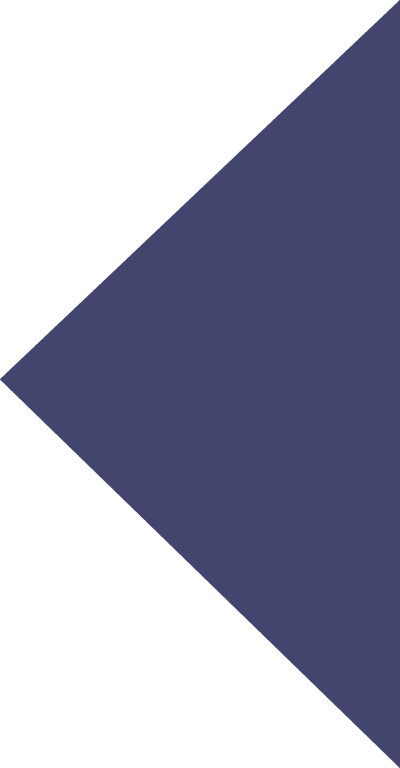
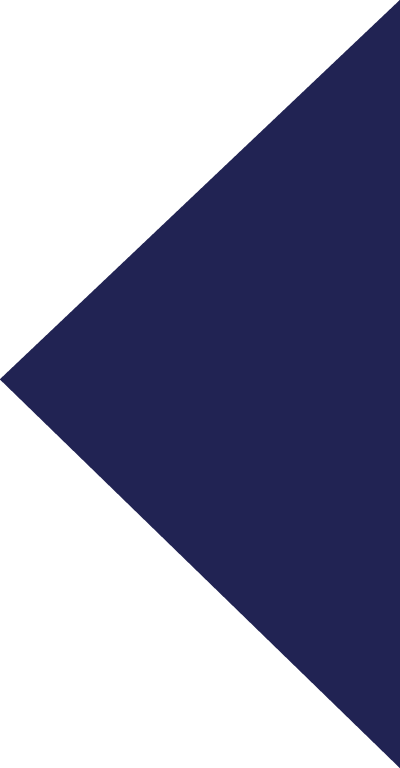
CHANGED & FINISHED: date filter in triangle + switching between date and type filter

diff --git a/js/index.js b/js/index.js
@@ -271,6 +271,7 @@ function bottomVisible() {
 /////////// click on "by type" ///////////
 document.querySelector('.by-type').addEventListener('click', showCategoryList);
 function showCategoryList(){
+
     document.querySelector('.current-type').classList.add('hide');
     document.querySelector('img.dark-green').classList.add('big');
     document.querySelector('.type-filter').classList.add('expand-type-filter');
@@ -280,8 +281,8 @@ function showCategoryList(){
 }
 
 /////////// click on "close by type" ///////////
-document.querySelector('.close-by-type').addEventListener('click', hideCategoryList);
-function hideCategoryList(){
+document.querySelector('.close-by-type').addEventListener('click', closeTypeFilter);
+function closeTypeFilter(){
     document.querySelector('img.dark-green').classList.remove('big');
     document.querySelector('.type-filter').classList.remove('expand-type-filter');
     document.querySelector('aside').classList.remove('tilt');
@@ -364,27 +365,19 @@ let datePicked; // need this to handle the collapse calender result. If no date 
 document.querySelector('.by-date').addEventListener('click', showCalender);
 function showCalender(){
     datePicked = false;
+    document.querySelector('img.dark-green').classList.remove('big');
+    closeTypeFilter();
+    document.querySelector('img.purple').classList.add('big');
+    document.querySelector('.calendar').classList.add('expand');
     document.querySelector('.date-filter').classList.remove('hide');
-    document.querySelector('.type-filter').classList.add('hide');
-    document.querySelector('.by-type').classList.add('hide');
     document.querySelector('.by-date').classList.add('hide');
-    document.querySelector('.or').classList.add('hide');
-    document.querySelector('aside').classList.add('expand');
-    document.querySelector('.corner-icon').classList.add('hide');
-    document.querySelector('.corner-icon-pink').classList.remove('hide');
 }
 
 
 // click to collapse calender
-document.querySelector('.close-calender').addEventListener('click', collapseCalender);
+document.querySelector('.close-calender').addEventListener('click', closeDateFilter);
 function collapseCalender(){
-    document.querySelector('.by-type').classList.remove('hide');
-    document.querySelector('.or').classList.remove('hide');
-    document.querySelector('.corner-icon').classList.remove('hide');
-    document.querySelector('.corner-icon-pink').classList.add('hide');
-    document.querySelector('.date-filter').classList.add('hide');
-    document.querySelector('.by-date').classList.remove('hide');
-    document.querySelector('aside').classList.remove('expand');
+    closeDateFilter();
     if (datePicked == true){
         if (document.querySelector('.chosen')){
             document.querySelector('.chosen').classList.remove('chosen');
@@ -397,6 +390,12 @@ function collapseCalender(){
     } else {
         document.querySelector('.type-filter').classList.remove('hide');
     }
+}
+function closeDateFilter(){
+    document.querySelector('img.purple').classList.remove('big');
+    document.querySelector('.by-date').classList.remove('hide');
+    document.querySelector('.date-filter').classList.add('hide');
+    document.querySelector('.calendar').classList.remove('expand');
 }
 
 /////////// show events on calender ///////////
@@ -446,6 +445,14 @@ function clickOnDay(d){
             setTimeout(function(){document.querySelector('.month:not(.hide) .hint').textContent = " * date in highlighted color has event(s) registered already";
 }, 1300);
         } else { // click on day with match
+            if(document.querySelector('.chosen')){ // the first click on matched day should clear chosen, from the second click on matched day on, there will be no more .chosen. so check existance first
+                document.querySelector('.chosen').classList.remove('chosen'); // cuz an event based on a date is chose and this event may not be of the same type of the current type displayed, so need to remove this info to avoid confusion
+                document.querySelector('.current-type').classList.add('hide'); // this line shows which was last picked as chosen type, need to be removed as well
+                if(document.querySelector('.genre-line')){
+                    document.querySelector('.genre-line').remove(); // inside there could be a line of genre, need to be removed as well.
+                }
+            }
+            document.querySelector('.triangle').setAttribute('src', "img/triangle_purple_300.png");
             document.querySelector('.month:not(.hide) .hint').textContent = " * date in highlighted color has event(s) registered already";     // whenever a day is clicked, reset hint to this
             document.querySelectorAll('.singleEvent').forEach(function(e){e.classList.add('match-day-clicked')});
             document.querySelectorAll('.singleEventOnDate').forEach(function(e){e.classList.add('match-day-clicked')});
@@ -470,7 +477,6 @@ function clickOnDay(d){
                             clone2.querySelector('.event-type-icon').setAttribute('src', "img/" + e.categories[0] +"-black.png");
                         }
                     clone2.querySelector('h1').innerHTML = e.title.rendered;
-                    clone2.querySelector('h1').classList.add('extra-margin'); // cuz list is not so long and crowded as in the list of all events
                     clone2.querySelector('span.hide').textContent = e.id;
                     if(e._embedded["wp:featuredmedia"]){
                         clone2.querySelector('.featuredImg').setAttribute("src", e._embedded["wp:featuredmedia"][0].media_details.sizes.medium.source_url);

diff --git a/css/index.css b/css/index.css
@@ -31,10 +31,17 @@
     position: fixed;
 }
 img.purple {
-    width: 67px;
-    z-index: 100;
-    top: 273px;
-    right: 10px;
+    opacity: .87;
+    width: 59px;
+    top: 287px;
+    right: 5px;
+    z-index: 4;
+}
+img.purple.big {
+    top: 210px;
+    opacity: .95;
+    width: 440px; /* cuz purple triangle is moved to the left a bit */
+    transition: all .1s ease-out;
 }
 img.dark-green {
     width: 97px;
@@ -93,7 +100,6 @@ aside.tilt {
     transform: rotate(-45deg) translateX(-230px) translateY(30px);
     transform-origin: 5% 33%;
     overflow: visible;
-
 }
 aside.expand {
     background: var(--black);
@@ -103,12 +109,9 @@ aside.expand {
     z-index: 1;
     padding: 30px 0 30px 30px;
 }
-aside>p {
+aside>p, .calendar>p {
     margin: 1.5em 0 1em;
     font-size: .7em;
-    color: #8a8b8a;
-}
-.by-type {
     color: var(--white);
 }
 .current-type {
@@ -172,6 +175,24 @@ a.chosen p {
     font-size: .83em;
     line-height: 1em;
 }
+.calendar {
+    z-index: 4;
+    position: fixed;
+    right: 5px;
+    top: 310px;
+}
+.calendar.expand {
+    width: 300px;
+    z-index: 11;
+    top: 450px;
+
+}
+.calendar .by-date {
+    text-align: left;
+    z-index: 7;
+    color: var(--purple);
+    transform: translate(5px) rotate(-90deg);
+}
 main {
     grid-column-start: 2;
     overflow: hidden;
@@ -197,11 +218,16 @@ main {
     width: 53%;
 }
 .date-filter {
-    width: 90%;
-    margin: 40px 0 0 0; /* keep close calendar button and open calender button at similar location on screen for better user experience. can't assure same location as "by Date" will move depending on which category is sellected */
+    z-index: 12;
+    width: 230px;
+    left: 67px;
+    top: -53px;
+    /*margin: 40px 0 0 0;  keep close calendar button and open calender button at similar location on screen for better user experience. can't assure same location as "by Date" will move depending on which category is sellected */
 }
 .close-calender {
+    text-align: right;
     font-size: .7em;
+    padding-right: 11px;
 }
 .close-calender span.X {
     font-size: 1.3em;
@@ -219,7 +245,7 @@ p.button {
     color: var(--pink);
 }
 p.plusMonth {
-    right: -59vw;
+    right: -50vw;
 }
 .month p span:nth-of-type(3) {
     width: 30px;
@@ -265,7 +291,7 @@ p.plusMonth {
 .hint {
     grid-column: 1/-1;
     color: var(--pink);
-    font-size: .7em;
+    font-size: .6em;
     margin-top: 1em;
 }
 .loading-dots {
@@ -299,6 +325,8 @@ p.plusMonth {
     font-size: 1.1em;
     font-family: title-bold;
     overflow: hidden;
+    background: white;
+    padding: 1em 0;
 }
 .eventList p {
     font-size: .83em;
@@ -312,13 +340,14 @@ p.plusMonth {
     width: 75vw;
     padding: 30px 10px 30px 25px;
 }
+/*
 .singleEvent p, .singleEventOnDate p, .singleEvent h1, .singleEventOnDate h1 {
     background: white;
-}
+} */
 .event-type-icon {
     float: right;
     width: 37px;
-    top: -20px;
+    top: -10px;
 }
 .featuredImg {
     width: 93%;

diff --git a/index.html b/index.html
@@ -8,10 +8,9 @@
 </head>
 <body>
     <img class="bg-triangle dark-green" src="img/dark-green.png" alt="background image with color">
-    <img class="bg-triangle purple" src="img/purple_stroke.png" alt="background image with color">
+    <img class="bg-triangle purple" src="img/purple.png" alt="background image with color">
     <img class="corner-icon" src="img/corner-icon_hori_400.jpg" alt="cornor icon">
     <aside>
-       <img class="corner-icon-pink hide" src="img/corner-icon_pink_200.png" alt="cornor icon">
         <p class="close-by-type">X</p>
         <p class="by-type">SEARCH<br> by TYPE:</p>
         <p class="current-type">all types</p>
@@ -19,10 +18,10 @@
             <li class="all-types"><a class="chosen" href="index.html"><p>all events</p></a></li>
         </ul>
     </aside>
-    <div class="calender">
-        <p class="by-date">by DATE</p>
+    <div class="calendar">
+        <p class="by-date">SEARCH<br> by DATE</p>
         <div class="date-filter hide">
-            <p class="close-calender"><span class="X">⤫</span><span> &nbsp;&nbsp;&nbsp;close calender</span></p>
+            <p class="close-calender"><span>close calender &nbsp;&nbsp;&nbsp;</span><span class="X">⤫</span></p>
             <p class="minusMonth button">&lt;</p>
             <p class="plusMonth button">&gt;</p>
             <div class="month hide">
